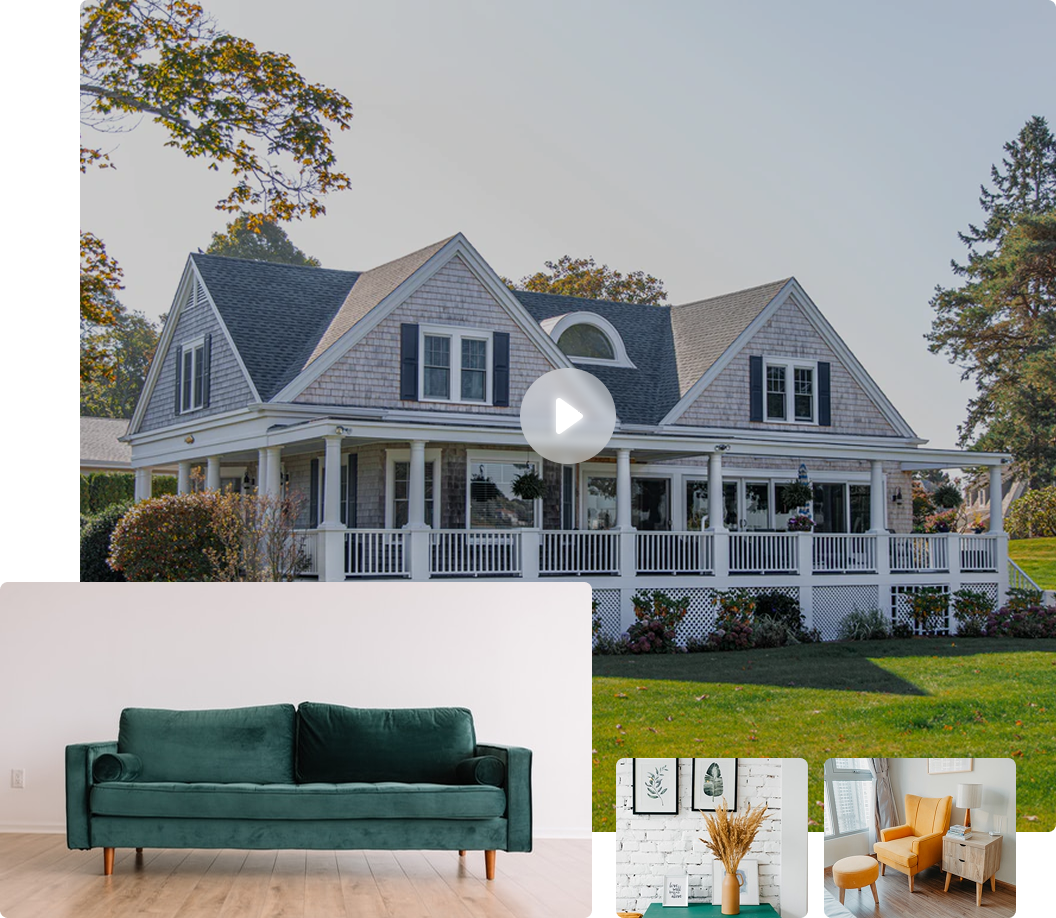
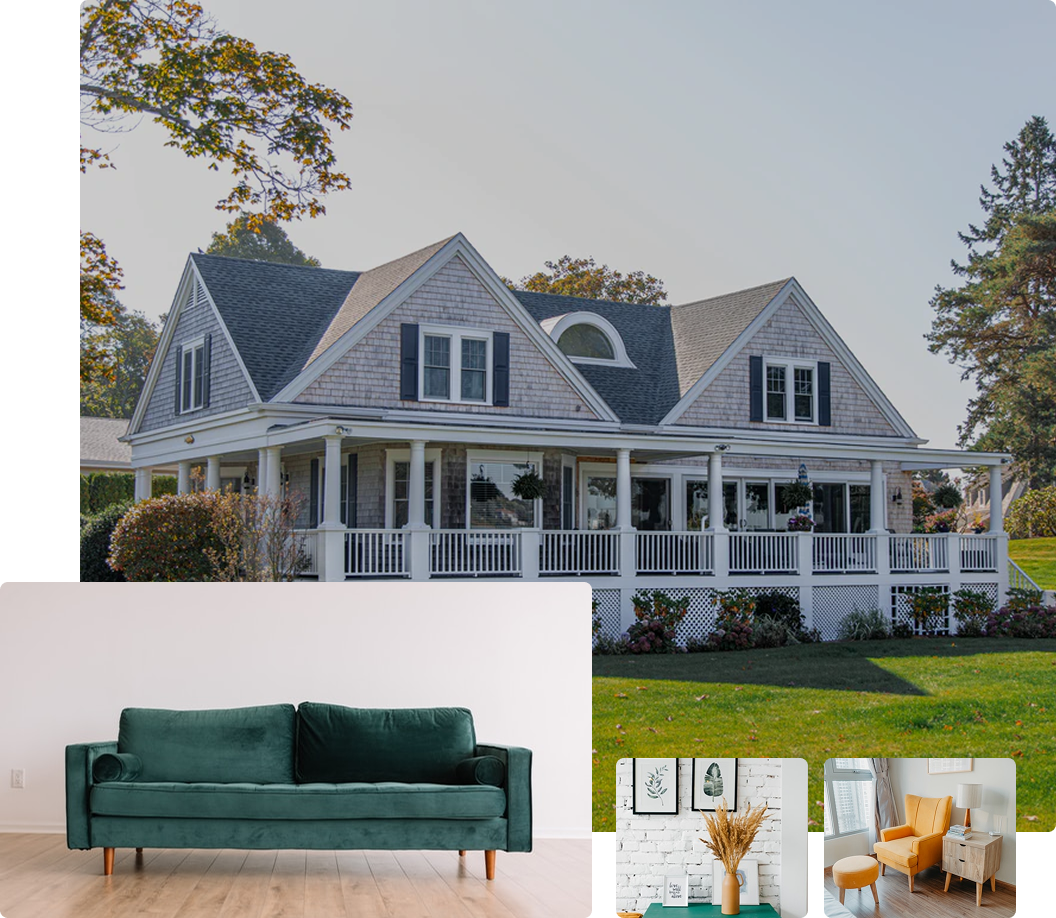
added new sections - video and footer

Changed region(s): [[0.4688, 0.3965, 0.5938, 0.5185]]

diff --git a/index.html b/index.html
@@ -61,7 +61,15 @@
                                     <input type="text" class="banner__input" placeholder="Search for the location you want!" />
                                 </div>
 
-                                <button class="banner__button">Search</button>
+                                <button class="banner__button button">
+                                    Search
+                                    <svg width="7" height="14" viewBox="0 0 7 14" fill="none" xmlns="http://www.w3.org/2000/svg">
+                                        <path
+                                            d="M0.993352 0.00180435C0.761661 0.00134945 0.537126 0.0825443 0.358724 0.231296C0.258315 0.315059 0.175316 0.417933 0.114479 0.534022C0.0536416 0.650112 0.0161625 0.777137 0.00418798 0.907824C-0.00778654 1.03851 0.00597897 1.17029 0.0446958 1.29562C0.0834126 1.42094 0.146319 1.53735 0.229814 1.63818L4.67221 6.98632L0.388472 12.3444C0.306104 12.4465 0.244592 12.5639 0.207475 12.69C0.170357 12.8161 0.158365 12.9482 0.172187 13.079C0.186009 13.2097 0.225373 13.3364 0.288017 13.4518C0.35066 13.5672 0.435349 13.669 0.537213 13.7513C0.639811 13.8421 0.75996 13.9107 0.89012 13.9526C1.02028 13.9945 1.15764 14.0088 1.29359 13.9948C1.42953 13.9807 1.56112 13.9385 1.68009 13.8709C1.79907 13.8032 1.90286 13.7116 1.98496 13.6016L6.77442 7.61492C6.92027 7.43638 7 7.21244 7 6.98133C7 6.75021 6.92027 6.52627 6.77442 6.34773L1.81639 0.361009C1.71691 0.240259 1.59055 0.144807 1.44755 0.0823965C1.30455 0.0199862 1.14894 -0.00762463 0.993352 0.00180435Z"
+                                            fill="white"
+                                        />
+                                    </svg>
+                                </button>
                             </div>
                             <div class="banner__partners">
                                 <p class="banner__partners-text">Our Partnership</p>
@@ -522,8 +530,148 @@
                     </div>
                 </div>
             </section>
+
+            <section class="tour margin-bottom">
+                <div class="wrapper">
+                    <div class="tour__content">
+                        <div>
+                            <span class="sub-text">Ready to Sell!</span>
+                            <div class="tour__desc">
+                                <h2>Let’s tour and see our house!</h2>
+                                <p class="tour__text">Houses recommended by our partners that have been curated&nbsp;to&nbsp;become the home of your dreams!</p>
+                                <div class="tour__details">
+                                    <span class="tour__details-title">House Detail</span>
+                                    <div class="tour__blocks">
+                                        <div class="tour__block">
+                                            <svg width="32" height="32" viewBox="0 0 32 32" fill="none" xmlns="http://www.w3.org/2000/svg">
+                                                <path d="M23.8 14.7692C26.0713 14.7692 28 16.6618 28 19.0769V22.7692H26.2V24H25V22.7692H7V24H5.8V22.7692H4V19.0769C4 16.7474 5.86341 14.7692 8.2 14.7692H23.8ZM22.6 8C24.2133 8 25.6004 9.33021 25.6 11.0769L25.6004 14.017C25.0548 13.7102 24.4443 13.5385 23.8 13.5385L22.6 13.5378C22.6 12.4839 21.7586 11.6923 20.8 11.6923H17.2C16.739 11.6923 16.3185 11.87 16.0001 12.1623C15.682 11.8703 15.2613 11.6923 14.8 11.6923H11.2C10.2061 11.6923 9.40033 12.5185 9.4 13.5378L8.2 13.5385C7.55587 13.5385 6.9456 13.7101 6.4 14.0167V11.0769C6.4 9.4223 7.69394 8 9.4 8H22.6ZM14.8 12.9228C15.1256 12.9228 15.4 13.2305 15.4 13.5385L10.6 13.5378C10.6 13.1613 10.8923 12.9231 11.2 12.9231L14.8 12.9228ZM20.8 12.9272C21.1395 12.9228 21.3997 13.2225 21.4 13.5378H16.6C16.6 13.156 16.8923 12.9231 17.2 12.9231L20.8 12.9272Z" fill="#888B97" />
+                                            </svg>
+                                            4 Bedrooms
+                                        </div>
+                                        <div class="tour__block">
+                                            <svg width="32" height="32" viewBox="0 0 32 32" fill="none" xmlns="http://www.w3.org/2000/svg">
+                                                <path d="M26.5391 15.9553H5.46092C4.63083 15.9553 3.95534 16.6308 3.95534 17.4609C3.95534 18.291 4.63083 18.9665 5.46092 18.9665H26.5391C27.3692 18.9665 28.0447 18.291 28.0447 17.4609C28.0447 16.6308 27.3692 15.9553 26.5391 15.9553Z" fill="#888B97" />
+                                                <path d="M26.6776 17.9819C26.4056 17.9056 26.1325 18.0602 26.0573 18.3272L26.0181 18.4647H5.98281L5.94267 18.3272C5.86739 18.0602 5.59239 17.9076 5.32237 17.9819C5.05537 18.0581 4.9018 18.3362 4.97811 18.6022L6.36123 23.4441C6.7898 24.9447 8.17898 25.9926 9.73877 25.9926H22.2602C23.821 25.9926 25.2091 24.9447 25.6377 23.4441L27.0208 18.6022C27.0981 18.3362 26.9435 18.0581 26.6776 17.9819ZM9.73975 23.9851C9.07128 23.9851 8.47506 23.5364 8.29237 22.893L7.64097 20.6106C7.5647 20.3436 7.71926 20.0665 7.98523 19.9903C8.25421 19.914 8.53025 20.0695 8.60553 20.3356L9.25693 22.618C9.31918 22.8318 9.51688 22.9824 9.73971 22.9824C10.0167 22.9824 10.2416 23.2072 10.2416 23.4843C10.2416 23.7613 10.0168 23.9851 9.73975 23.9851Z" fill="#888B97" />
+                                                <path d="M10.7034 25.0411C10.4555 24.9197 10.1554 25.017 10.0299 25.266L9.02617 27.2734C8.90271 27.5213 9.00307 27.8224 9.25102 27.9469C9.32428 27.9831 9.40059 28.0001 9.47587 28.0001C9.65955 28.0001 9.83623 27.8987 9.92454 27.7221L10.9282 25.7147C11.0517 25.4667 10.9513 25.1655 10.7034 25.0411Z" fill="#888B97" />
+                                                <path d="M22.9738 27.2743L21.9701 25.2668C21.8457 25.0179 21.5445 24.9185 21.2966 25.042C21.0487 25.1664 20.9483 25.4676 21.0717 25.7155L22.0754 27.723C22.1638 27.8986 22.3404 28 22.5241 28C22.5994 28 22.6757 27.9829 22.749 27.9478C22.9969 27.8233 23.0973 27.5222 22.9738 27.2743Z" fill="#888B97" />
+                                                <path d="M24.1151 4C23.6032 4 23.1214 4.19973 22.7591 4.5621L21.1662 6.15501C20.9705 6.35073 20.9705 6.66893 21.1662 6.86465C21.3619 7.06038 21.6801 7.06038 21.8758 6.86465L23.4687 5.27274C23.6403 5.10011 23.8702 5.00474 24.1201 5.00474C24.624 5.00474 25.0335 5.41426 25.0335 5.91811V16.4572C25.0335 16.7342 25.2583 16.9591 25.5354 16.9591C25.8124 16.9591 26.0372 16.7342 26.0382 16.4562V5.91713C26.0383 4.86021 25.1791 4 24.1151 4Z" fill="#888B97" />
+                                                <path d="M22.3776 6.65681L21.3739 5.65311C21.2595 5.53868 21.0999 5.48547 20.9373 5.51257L18.428 5.92411C18.2433 5.95422 18.0917 6.08469 18.0325 6.26136C17.9733 6.43803 18.0185 6.63475 18.149 6.76822L21.1601 9.86973C21.2555 9.9691 21.387 10.0223 21.5195 10.0223C21.5666 10.0223 21.6148 10.0153 21.662 10.0012C21.8406 9.94905 21.9761 9.80151 22.0123 9.61881L22.5141 7.10952C22.5472 6.94588 22.496 6.77622 22.3776 6.65681Z" fill="#888B97" />
+                                                <path d="M15.8525 10.0806C15.6567 9.88491 15.3385 9.88491 15.1428 10.0806L14.1391 11.0843C13.9434 11.2801 13.9434 11.5983 14.1391 11.794C14.2375 11.8913 14.3659 11.9405 14.4944 11.9405C14.6229 11.9405 14.7514 11.8914 14.8488 11.794L15.8525 10.7903C16.0482 10.5945 16.0482 10.2764 15.8525 10.0806Z" fill="#888B97" />
+                                                <path d="M17.8599 12.088C17.6641 11.8922 17.346 11.8922 17.1502 12.088L16.1465 13.0917C15.9508 13.2874 15.9508 13.6056 16.1465 13.8013C16.2449 13.8987 16.3733 13.9479 16.5018 13.9479C16.6303 13.9479 16.7588 13.8987 16.8562 13.8013L17.8599 12.7976C18.0556 12.6019 18.0556 12.2837 17.8599 12.088Z" fill="#888B97" />
+                                                <path d="M18.8636 9.07673C18.6679 8.881 18.3497 8.881 18.154 9.07673L17.1503 10.0804C16.9545 10.2762 16.9545 10.5944 17.1503 10.7901C17.2487 10.8874 17.3771 10.9366 17.5056 10.9366C17.6341 10.9366 17.7625 10.8875 17.8599 10.7901L18.8636 9.78637C19.0594 9.59065 19.0594 9.27245 18.8636 9.07673Z" fill="#888B97" />
+                                            </svg>
+                                            2 Bathrooms
+                                        </div>
+                                        <div class="tour__block">
+                                            <svg width="32" height="32" viewBox="0 0 32 32" fill="none" xmlns="http://www.w3.org/2000/svg">
+                                                <path d="M27.3838 10.6286L17.357 4.37929C16.5309 3.86917 15.4665 3.87438 14.6453 4.39024L4.60814 10.6338C3.98488 11.0255 3.81267 11.8251 4.22271 12.4197C4.63329 13.0144 5.47086 13.1792 6.09466 12.7869L16.0104 6.61852L25.9142 12.7922C26.1416 12.9325 26.3959 12.9987 26.6473 12.9987C27.0913 12.9987 27.5243 12.7916 27.7829 12.4109C28.1885 11.8131 28.0092 11.0161 27.3838 10.6286Z" fill="#888B97" />
+                                                <path
+                                                    d="M24.2107 18.7531C24.134 18.3031 23.7525 17.9702 23.3075 17.9702H22.796L22.6017 15.8962C22.3942 13.6781 20.5985 12 18.4248 12H13.5761C11.4019 12 9.6067 13.6787 9.39866 15.8962L9.20484 17.9702H8.69287C8.24737 17.9702 7.86632 18.3031 7.78869 18.7531L7.02759 23.1768C6.93321 23.7251 7.08442 24.2895 7.43351 24.715C7.76941 25.1249 8.26412 25.3694 8.78167 25.3876V26.1221C8.78167 27.162 9.59452 28 10.6098 28H11.1872C12.2015 28 13.0266 27.162 13.0266 26.1221V25.3996H18.9794V26.1206C18.9794 27.1609 19.7978 28 20.8121 28H21.39C22.4043 28 23.2238 27.1609 23.2238 26.1206V25.3876C23.7413 25.3694 24.233 25.127 24.5679 24.7176C24.917 24.291 25.0661 23.7298 24.9728 23.1804L24.2107 18.7531ZM10.3906 23.6933C9.53465 23.6933 8.84052 22.9822 8.84052 22.1036C8.84052 21.225 9.53465 20.5134 10.3906 20.5134C11.2471 20.5134 11.9417 21.2245 11.9417 22.1036C11.9417 22.9822 11.2471 23.6933 10.3906 23.6933ZM10.7773 17.9702L10.9564 16.057C11.0868 14.666 12.2127 13.6183 13.5761 13.6183H13.8557V14.2196C13.8557 14.7414 14.2601 15.157 14.7685 15.157H17.2324C17.7408 15.157 18.1523 14.7414 18.1523 14.2196V13.6188H18.4248C19.7882 13.6188 20.9141 14.6665 21.044 16.0575L21.2236 17.9707L10.7773 17.9702ZM21.6082 23.6933C20.7522 23.6933 20.0581 22.9822 20.0581 22.1036C20.0581 21.225 20.7522 20.5134 21.6082 20.5134C22.4647 20.5134 23.1593 21.2245 23.1593 22.1036C23.1593 22.9822 22.4647 23.6933 21.6082 23.6933Z"
+                                                    fill="#888B97"
+                                                />
+                                            </svg>
+                                            1 Carport
+                                        </div>
+                                        <div class="tour__block">
+                                            <svg width="32" height="32" viewBox="0 0 32 32" fill="none" xmlns="http://www.w3.org/2000/svg">
+                                                <path d="M26.7884 9H22.4324C21.7631 9 21.2207 9.53666 21.2207 10.1996V13.3135H18.0759C17.4064 13.3135 16.8641 13.85 16.8641 14.5129V17.6271H13.7192C13.0497 17.6271 12.5075 18.1643 12.5075 18.8265V22.0907H9.21171C8.89012 22.0907 8.58195 22.2169 8.35482 22.4416C8.1275 22.6664 8 22.973 8 23.2901L8.00039 25.7999C8.00039 26.4634 8.54297 27 9.21206 27H26.7884C27.4579 27 28 26.4634 28 25.7999V10.1995C28.0001 9.53666 27.4579 9 26.7884 9Z" fill="#888B97" />
+                                                <path d="M20.764 5.2453C20.4425 4.92389 19.9158 4.91771 19.5863 5.23043C14.2431 10.3055 9.15982 15.2624 4.24409 20.0549C4.08768 20.2074 4 20.4146 4 20.6296V26.1877C4 26.6356 4.37278 27 4.83294 27C5.29264 27 5.66608 26.6357 5.66608 26.1877V20.9657C10.502 16.2503 15.5017 11.378 20.7485 6.39368C21.0778 6.08102 21.0845 5.56652 20.764 5.2453Z" fill="#888B97" />
+                                            </svg>
+                                            2 Floors
+                                        </div>
+                                    </div>
+                                </div>
+                                <div class="tour__info">
+                                    <div class="tour__woker-info">
+                                        <div class="tour__avatar-wrap">
+                                            <img src="./img/avatar-7.png" alt="Avatar" />
+                                        </div>
+                                        <div class="tour__manager-info">
+                                            <span class="tour__manager-name">Dianne Russell</span>
+                                            <span class="tour__job">Manager Director</span>
+                                        </div>
+                                    </div>
+                                    <button class="tour__button button">
+                                        <svg width="15" height="20" viewBox="0 0 15 20" fill="none" xmlns="http://www.w3.org/2000/svg">
+                                            <path
+                                                d="M3.88784 0.102171C4.41294 -0.0561484 4.97643 -0.0298462 5.48449 0.176699C5.99256 0.383245 6.41456 0.757574 6.68024 1.23737L6.77024 1.41617L7.56344 3.18137C7.80453 3.71715 7.88279 4.31199 7.78849 4.8919C7.69418 5.4718 7.43148 6.01119 7.03304 6.44297L6.87464 6.60137L5.62184 7.76897C5.39624 7.98257 5.56544 8.80937 6.38264 10.223C7.11584 11.495 7.71464 12.089 8.00744 12.1214H8.05904L8.12264 12.1094L10.5826 11.357C10.9133 11.2556 11.2661 11.2516 11.5989 11.3454C11.9317 11.4393 12.2305 11.627 12.4594 11.8862L12.5698 12.0242L14.197 14.2802C14.5163 14.7222 14.6756 15.2598 14.6485 15.8045C14.6215 16.3491 14.4098 16.8683 14.0482 17.2766L13.9018 17.4278L13.2502 18.0446C12.6662 18.5977 11.9356 18.9714 11.1453 19.1214C10.355 19.2714 9.53831 19.1913 8.79224 18.8906C6.47024 17.9546 4.36064 15.8162 2.44424 12.497C0.524243 9.16937 -0.273756 6.26897 0.0826436 3.78497C0.190597 3.03396 0.499976 2.32621 0.977911 1.73692C1.45585 1.14764 2.08449 0.698828 2.79704 0.438171L3.02864 0.361371L3.88784 0.102171Z"
+                                                fill="white"
+                                            />
+                                        </svg>
+                                        Contact Now
+                                    </button>
+                                </div>
+                            </div>
+                        </div>
+
+                        <div class="tour__video-block">
+                            <img src="./img/home.png" alt="Video" />
+                            <img src="./img/icons/icon-play.png" class="tour__icon" alt="Icon play" />
+                        </div>
+                    </div>
+                </div>
+            </section>
         </main>
-        <footer class="footer"></footer>
+        <footer class="footer">
+            <div class="footer__wrapper wrapper">
+                <div class="footer__info">
+                    <div class="footer__logo-wrap">
+                        <img src="./img/logo.png" alt="Logo" />
+                    </div>
+                    <p class="footer__text">We provide information about properties such as houses, villas and apartments to help people find their dream home</p>
+                    <div class="footer__socials">
+                        <a href="#" class="footer__social">
+                            <svg width="32" height="32" viewBox="0 0 32 32" fill="none" xmlns="http://www.w3.org/2000/svg">
+                                <path d="M12.3186 26V16.6154H9V13.2365H12.3186V10.3505C12.3186 8.08264 14.2789 6 18.7959 6C20.6247 6 21.9771 6.1311 21.9771 6.1311L21.8705 9.28642C21.8705 9.28642 20.4913 9.27638 18.9863 9.27638C17.3574 9.27638 17.0965 9.83768 17.0965 10.7693V13.2365H22L21.7866 16.6154H17.0965V26H12.3186Z" fill="#3C4563" />
+                            </svg>
+                        </a>
+                        <a href="#" class="footer__social">
+                            <svg width="32" height="32" viewBox="0 0 32 32" fill="none" xmlns="http://www.w3.org/2000/svg">
+                                <path
+                                    d="M28 8.37575C27.1174 8.76628 26.157 9.04735 25.1676 9.15682C26.1948 8.53089 26.9639 7.54202 27.3308 6.37575C26.367 6.96388 25.3111 7.37629 24.2101 7.59469C23.7499 7.09003 23.1933 6.688 22.575 6.41364C21.9567 6.13929 21.2899 5.99849 20.6163 6.00001C17.8906 6.00001 15.6986 8.26628 15.6986 11.0473C15.6986 11.4379 15.7447 11.8284 15.8197 12.2042C11.7385 11.9852 8.09855 9.98522 5.67864 6.92309C5.23771 7.69562 5.00665 8.57524 5.00949 9.47042C5.00949 11.2219 5.87766 12.7663 7.20154 13.6746C6.42136 13.643 5.65944 13.4231 4.97777 13.0326V13.0947C4.97777 15.5473 6.66795 17.5799 8.92056 18.0473C8.49761 18.16 8.06251 18.2177 7.62553 18.2189C7.30537 18.2189 7.00252 18.1864 6.69679 18.142C7.31979 20.142 9.134 21.5947 11.2943 21.642C9.60413 23 7.48708 23.7988 5.18832 23.7988C4.77587 23.7988 4.39514 23.784 4 23.7367C6.18051 25.1716 8.7677 26 11.5539 26C20.599 26 25.5484 18.3136 25.5484 11.642C25.5484 11.4231 25.5484 11.2042 25.534 10.9852C26.4915 10.2663 27.3308 9.37575 28 8.37575Z"
+                                    fill="#3C4563"
+                                />
+                            </svg>
+                        </a>
+                        <a href="#" class="footer__social">
+                            <svg width="32" height="32" viewBox="0 0 32 32" fill="none" xmlns="http://www.w3.org/2000/svg">
+                                <path
+                                    d="M15.9973 12.6652C14.1611 12.6652 12.6626 14.1638 12.6626 16C12.6626 17.8362 14.1611 19.3348 15.9973 19.3348C17.8335 19.3348 19.332 17.8362 19.332 16C19.332 14.1638 17.8335 12.6652 15.9973 12.6652ZM25.9989 16C25.9989 14.6191 26.0114 13.2506 25.9338 11.8722C25.8563 10.2711 25.4911 8.85017 24.3203 7.67938C23.147 6.50609 21.7286 6.14334 20.1275 6.06579C18.7466 5.98824 17.3782 6.00074 15.9998 6.00074C14.6189 6.00074 13.2505 5.98824 11.8721 6.06579C10.271 6.14334 8.85012 6.50859 7.67935 7.67938C6.50608 8.85267 6.14334 10.2711 6.06579 11.8722C5.98824 13.2531 6.00074 14.6216 6.00074 16C6.00074 17.3784 5.98824 18.7494 6.06579 20.1278C6.14334 21.7289 6.50858 23.1498 7.67935 24.3206C8.85262 25.4939 10.271 25.8567 11.8721 25.9342C13.253 26.0118 14.6214 25.9993 15.9998 25.9993C17.3807 25.9993 18.7491 26.0118 20.1275 25.9342C21.7286 25.8567 23.1495 25.4914 24.3203 24.3206C25.4936 23.1473 25.8563 21.7289 25.9338 20.1278C26.0139 18.7494 25.9989 17.3809 25.9989 16ZM15.9973 21.131C13.1579 21.131 10.8664 18.8394 10.8664 16C10.8664 13.1606 13.1579 10.869 15.9973 10.869C18.8367 10.869 21.1282 13.1606 21.1282 16C21.1282 18.8394 18.8367 21.131 15.9973 21.131ZM21.3383 11.8572C20.6754 11.8572 20.14 11.3218 20.14 10.6589C20.14 9.99594 20.6754 9.46058 21.3383 9.46058C22.0013 9.46058 22.5366 9.99594 22.5366 10.6589C22.5368 10.8163 22.5059 10.9722 22.4458 11.1177C22.3856 11.2632 22.2974 11.3954 22.1861 11.5067C22.0748 11.618 21.9426 11.7062 21.7971 11.7664C21.6516 11.8265 21.4957 11.8574 21.3383 11.8572Z"
+                                    fill="#3C4563"
+                                />
+                            </svg>
+                        </a>
+                    </div>
+                </div>
+                <div class="footer__links-block">
+                    <div class="footer__block">
+                        <span class="footer__block-title">Property</span>
+                        <div class="footer__list">
+                            <a href="#" class="footer__link">House</a>
+                            <a href="#" class="footer__link">Apartment</a>
+                            <a href="#" class="footer__link">Villa</a>
+                        </div>
+                    </div>
+                    <div class="footer__block">
+                        <span class="footer__block-title">Article</span>
+                        <div class="footer__list">
+                            <a href="#" class="footer__link">New Article</a>
+                            <a href="#" class="footer__link">Popular Article</a>
+                            <a href="#" class="footer__link">Most Read</a>
+                            <a href="#" class="footer__link">Tips & Tricks</a>
+                        </div>
+                    </div>
+                    <div class="footer__block">
+                        <span class="footer__block-title">Contact</span>
+                        <div class="footer__list">
+                            <span class="footer__link">2464 Royal Ln. Mesa, New Jersey 45463</span>
+                            <a href="tel:+(671) 555-0110" class="footer__link">(671) 555-0110</a>
+                            <a href="mailto:info@hounter.com" class="footer__link">info@hounter.com</a>
+                        </div>
+                    </div>
+                </div>
+            </div>
+        </footer>
         <script src="https://cdn.jsdelivr.net/npm/swiper@11/swiper-bundle.min.js"></script>
         <script src="./scripts/scripts.js"></script>
     </body>

diff --git a/styles/styles.css b/styles/styles.css
@@ -93,10 +93,24 @@ h2 {
     color: var(--dark-blue);
 }
 
-button {
+.button {
+    display: flex;
+    align-items: center;
+    gap: 16px;
+    background-color: var(--green-2);
+    color: var(--white);
+    border-radius: 32px;
+    font-size: 14px;
+    font-weight: 600;
+    transition: background-color 0.3s ease;
     border: none;
     outline: none;
     cursor: pointer;
+    padding: 12px 24px;
+}
+
+.button:hover {
+    background-color: var(--green);
 }
 
 .sub-text {
@@ -164,6 +178,7 @@ button {
     border-radius: 50%;
     color: var(--grey);
     transition: all 0.3s ease;
+    cursor: pointer;
 }
 
 .arrow:hover {
@@ -628,22 +643,6 @@ button {
     padding: 12px 16px;
 }
 
-.banner__button {
-    background-color: var(--green-2);
-    color: var(--white);
-    border: none;
-    border-radius: 32px;
-    padding: 12px 24px;
-    font-size: 14px;
-    font-weight: 600;
-    transition: background-color 0.3s ease;
-    cursor: pointer;
-}
-
-.banner__button:hover {
-    background-color: var(--green);
-}
-
 .banner__partners {
     margin-top: 32px;
 }
@@ -756,6 +755,7 @@ button {
     background-color: transparent;
     border-radius: 32px;
     transition: all 0.3s ease;
+    cursor: pointer;
     padding: 12px 24px;
 }
 
@@ -870,4 +870,152 @@ button {
     font-size: 14px;
     line-height: 157%;
     color: var(--grey);
+}
+
+/* Tour */
+
+.tour h2 {
+    margin-top: 12px;
+}
+
+.tour__content {
+    display: flex;
+    align-items: center;
+    gap: 150px;
+}
+
+.tour__text {
+    line-height: 175%;
+    color: var(--blue);
+    opacity: 0.75;
+    margin: 16px 0;
+}
+
+.tour__details-title {
+    display: inline-block;
+    font-weight: 600;
+    line-height: 175%;
+    color: var(--dark-blue);
+    opacity: 0.75;
+    margin-bottom: 16px;
+}
+
+.tour__blocks {
+    display: grid;
+    grid-template-columns: repeat(2, 1fr);
+    gap: 16px;
+    margin-bottom: 32px;
+}
+
+.tour__block {
+    display: flex;
+    align-items: center;
+    gap: 16px;
+    font-weight: 500;
+    text-transform: capitalize;
+    color: var(--grey-2);
+}
+
+.tour__info {
+    display: flex;
+    justify-content: space-between;
+    gap: 15px;
+    border-top: 2px solid var(--lightest);
+    padding-top: 32px;
+}
+
+.tour__woker-info {
+    display: flex;
+    align-items: center;
+    gap: 24px;
+}
+
+.tour__avatar-wrap {
+    max-width: 56px;
+}
+
+.tour__manager-info {
+    display: flex;
+    flex-direction: column;
+    gap: 4px;
+}
+
+.tour__manager-name {
+    font-weight: 500;
+    font-size: 18px;
+    line-height: 133%;
+    color: var(--dark);
+}
+
+.tour__job {
+    font-weight: 500;
+    line-height: 150%;
+    color: var(--grey);
+}
+
+.tour__video-block {
+    max-width: 528px;
+    position: relative;
+}
+
+.tour__icon {
+    position: absolute;
+    top: 45%;
+    right: 40%;
+    max-width: 48px;
+    max-height: 48px;
+    transform: translateY(-50%);
+}
+
+/* Footer */
+
+.footer__wrapper {
+    display: grid;
+    grid-template-columns: 1fr 2fr;
+    gap: 260px;
+}
+
+.footer__logo-wrap {
+    max-width: 115px;
+    margin-bottom: 16px;
+}
+
+.footer__text {
+    font-size: 14px;
+    line-height: 171%;
+    color: var(--blue);
+    opacity: 0.75;
+    margin-bottom: 24px;
+}
+
+.footer__socials {
+    display: flex;
+    align-items: center;
+    gap: 24px;
+}
+
+.footer__block-title {
+    display: inline-block;
+    font-weight: 600;
+    font-size: 18px;
+    text-transform: capitalize;
+    color: var(--dark);
+    margin-bottom: 24px;
+}
+
+.footer__link {
+    font-size: 14px;
+    text-transform: capitalize;
+    color: var(--grey);
+}
+
+.footer__links-block {
+    display: flex;
+    gap: 88px;
+}
+
+.footer__list {
+    display: flex;
+    flex-direction: column;
+    gap: 16px;
 }
